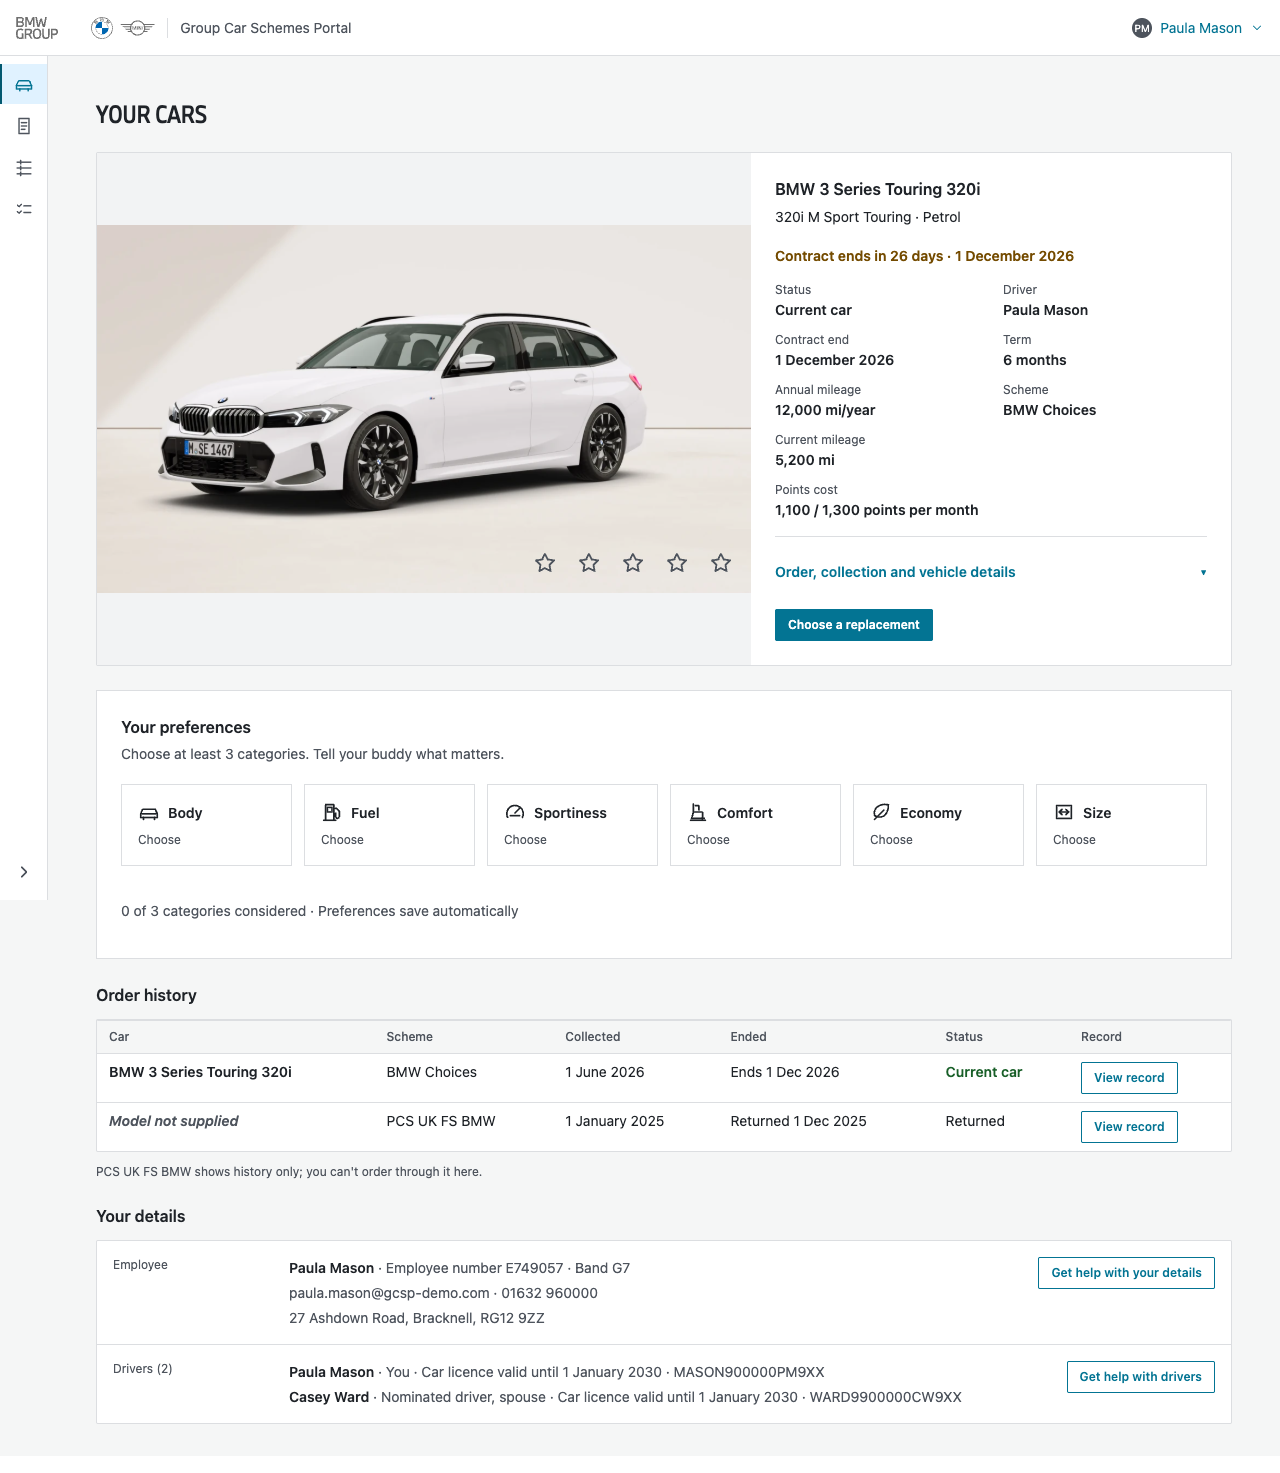
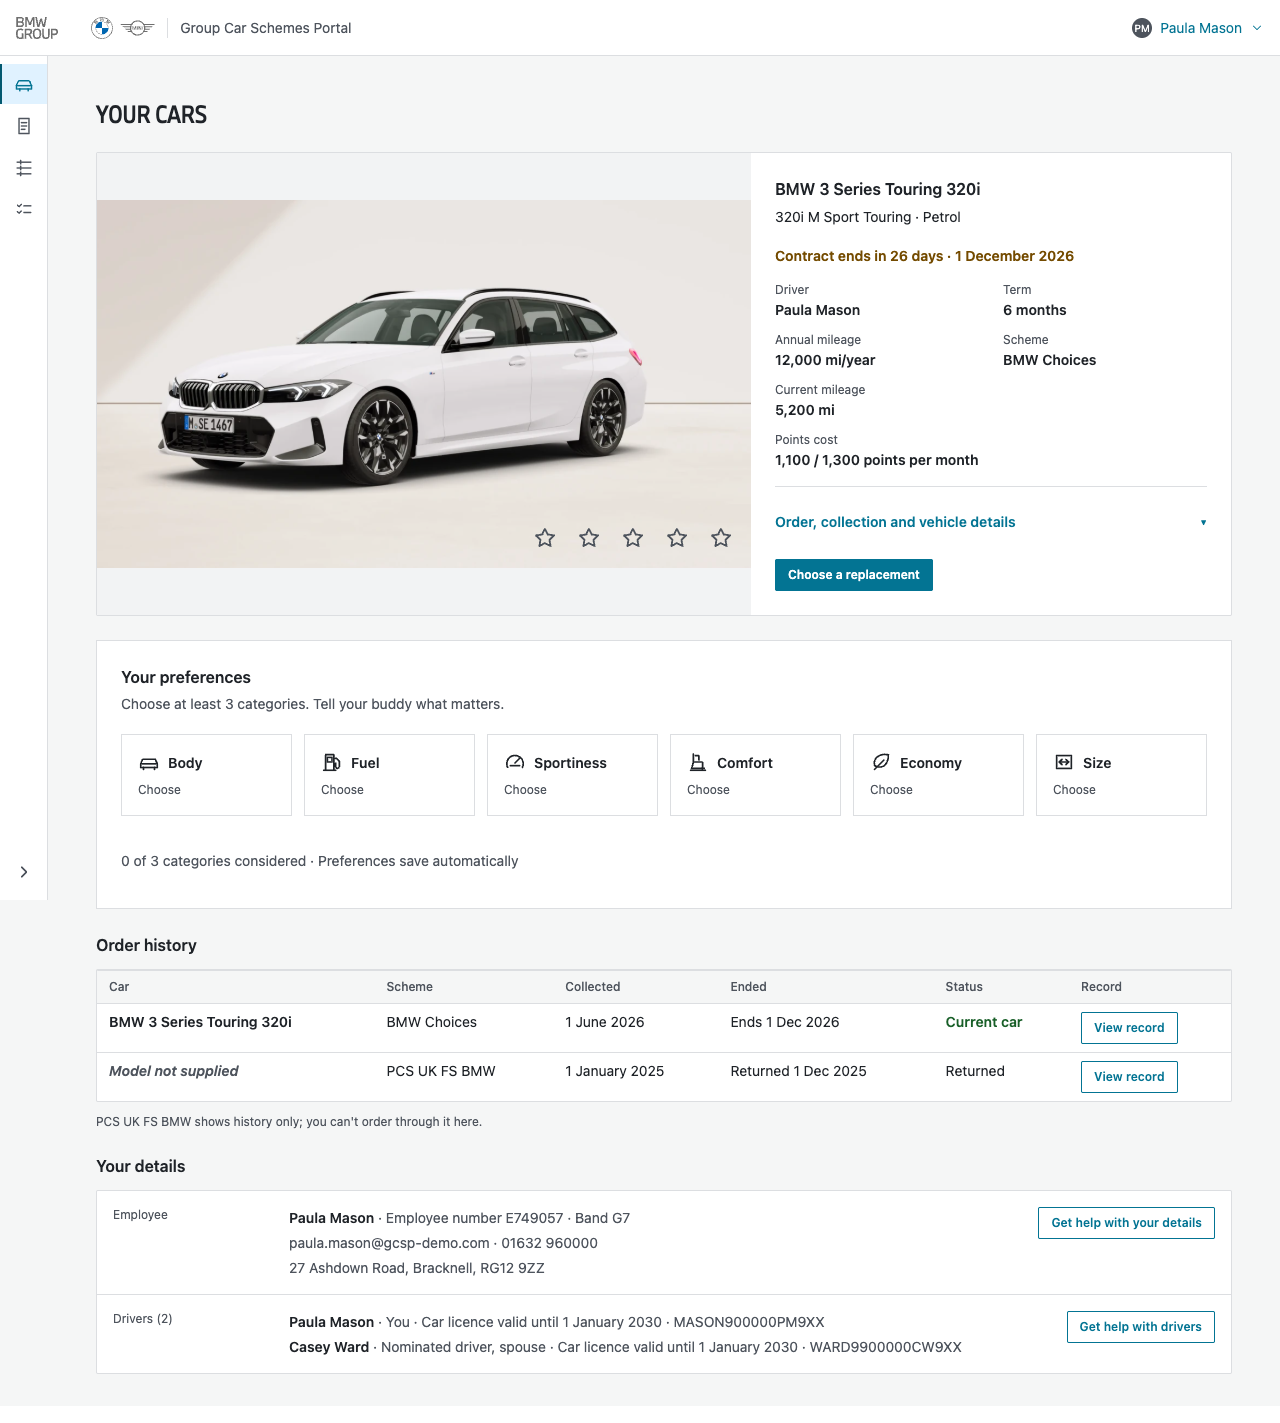
GCSP Your cars: drop the Status and Contract end facts from the car panel
The countdown already gives the end date and the panel is the current
car, so neither repeats (Paula P10). Gary approved this change to the
frozen facts on 11 November. Both stay in the full record.

diff --git a/server/test/gcsp-account-render.test.js b/server/test/gcsp-account-render.test.js
@@ -793,7 +793,7 @@ test('FUCQ-252: after a confirmed handover or return the current-car card follow
       assert.equal(rest.length, 0, `${oldStatus}: one current-car card`); assert.equal(card.dataset.contractId, undefined);
       assert.equal(card.dataset.orderUuid, orders.uuid); assert.equal(card.querySelector('h2').textContent, 'BMW 3 Series Saloon 320i');
       assert.equal(card.querySelector('.gcsp-account-context'), null);
-      assert.deepEqual(factPairs(card).slice(0, 3), [['Status', 'Current car'], ['Collected', '7 November 2026'], ['Delivered VIN', VIN]]);
+      assert.deepEqual(factPairs(card).slice(0, 2), [['Collected', '7 November 2026'], ['Delivered VIN', VIN]], 'the panel is the current car, so no Status fact');
       assert.doesNotMatch(view.root.textContent, /No current car|Choose a replacement/);
     } finally { view.destroy(); }
   }
@@ -869,7 +869,7 @@ test('FUCQ-195: the current-car card shows readable labels and no raw identifier
     const record = openFrom(first.root).textContent; first.root.querySelector('.gcsp-side-drawer .vm-btn').click();
     for (const id of raw) { assert.ok(!shownText.some((text) => text.includes(id)), id); assert.ok(!record.includes(id), id); }
     assert.ok(![...card.querySelectorAll('dd')].some((node) => node.textContent === value.currentContract.status));
-    assert.deepEqual(factPairs(card)[0], ['Status', 'Current car']);
+    assert.equal(factPairs(card).some(([name]) => name === 'Status'), false, 'the record keeps Status; the panel does not repeat it');
     assert.equal(pointsCost(card), '1,100 / 1,300 points per month');
     assert.doesNotMatch(card.textContent, /Synthetic example data/);
     assert.doesNotMatch(card.textContent, /Vehicle slot|Scheme|Current contract|points cost not supplied|Wltp/);
@@ -1066,9 +1066,9 @@ test('the current car: heading and specification, countdown, ordered facts, deta
     const countdown = car.querySelector('.gcsp-countdown');
     assert.equal(countdown.textContent, 'Contract ends in 26 days \u00b7 1 December 2026');
     assert.equal(countdown.previousElementSibling.className, 'gcsp-account-title');
-    // Registration is unsupplied in the fixture, so its row is hidden; Points cost is last.
-    assert.deepEqual(factPairs(car.querySelector('.gcsp-account-car-facts')), [['Status', 'Current car'], ['Driver', 'Paula Mason'],
-      ['Contract end', '1 December 2026'], ['Term', '6 months'], ['Annual mileage', '12,000 mi/year'], ['Current mileage', '5,200 mi'],
+    // No Status or Contract end (the countdown says it); unsupplied Registration is hidden; Points cost is last.
+    assert.deepEqual(factPairs(car.querySelector('.gcsp-account-car-facts')), [['Driver', 'Paula Mason'],
+      ['Term', '6 months'], ['Annual mileage', '12,000 mi/year'], ['Current mileage', '5,200 mi'],
       ['Points cost', '1,100 / 1,300 points per month']]);
     const details = car.querySelector('details.gcsp-details');
     assert.equal(details.querySelector('summary.gcsp-details-summary').textContent, 'Order, collection and vehicle details');

diff --git a/blocks/gcsp/account/gcsp-account.js b/blocks/gcsp/account/gcsp-account.js
@@ -226,8 +226,8 @@ function currentCar(contract, model, controls, explained = false) {
     : el('p', 'gcsp-countdown', `Contract ${countdown(model.asOf.slice(0, 10), contract.contractEndDate)} \u00b7 ${date(contract.contractEndDate)}`);
   const copy = el('div', 'gcsp-feature-copy');
   copy.append(title, state);
-  const list = suppliedFacts([row('Status', status(contract.status)), row('Driver', contract.driver?.name), row('Contract end', date(contract.contractEndDate)),
-    row('Term', contract.months, 'months'), row('Annual mileage', contract.annualMileage, contract.mileageUnit), row('Scheme', scheme),
+  // The countdown already says the end date and the panel is the current car, so neither repeats as a fact (Gary, 11 Nov).
+  const list = suppliedFacts([row('Driver', contract.driver?.name), row('Term', contract.months, 'months'), row('Annual mileage', contract.annualMileage, contract.mileageUnit), row('Scheme', scheme),
     row('Registration', contract.registration), row('Current mileage', contract.currentOdometer), ...slotRows(model, contract.slotId),
     row('Points cost', formatPointsCost(terms))], 'gcsp-account-facts gcsp-account-car-facts');
   copy.append(list);
@@ -264,7 +264,7 @@ function orderCurrentCar(car, order, orderVehicle) {
   const copy = el('div', 'gcsp-feature-copy');
   const title = el('div', 'gcsp-account-title');
   title.append(heading);
-  copy.append(title, ...[suppliedFacts([row('Status', 'Current car'), row('Collected', date(car.collectedAt?.slice(0, 10))), row('Delivered VIN', car.vin),
+  copy.append(title, ...[suppliedFacts([row('Collected', date(car.collectedAt?.slice(0, 10))), row('Delivered VIN', car.vin),
     ...(same ? orderIdentityRows(order.source?.orderReference, order.source?.orderNumber).map(({ label, value }) => row(label, value)) : [])], 'gcsp-account-facts')].filter(Boolean));
   feature.append(mediaColumn(media), copy);
   return feature;

diff --git a/COMPONENTS.md b/COMPONENTS.md
@@ -292,7 +292,7 @@ A data helper, not a component (pure, no DOM). On-screen times read the Europe/L
 
 `mountAccount(root, { adapter, brand, onSupport, print, preferences })` and `<gcsp-account>` compose `mountEmployee`, `screenIntro`, `button`, `statusScreen`, `factList`, `formatTerm`, `mediaWell` (`gcsp-media-whole`), `formatPointsCost`, the existing countdown, `dataTable` and `sideDrawer`. A current car has no stock decision, so this is page composition rather than a new decision-card primitive. `gcsp-account.css` imports the employee composition and has its own ratchet cap; harness `gcsp-account.html` uses the HTTP adapter by default and explicit read-only snapshots with `?fixture=`.
 
-**Your cars (frozen reference [193cbf07](docs/gcsp/mockups/account-preferences-2026-11-10/FROZEN-REFERENCE.md), FUCQ-359).** The account body is centred and capped at 1680 px (`.gcsp-account-body` only; `.gcsp-rep` elsewhere is unchanged). DOM, reading and visual order for a ready account: the h1 head (no kicker; the shared 23 px title token; a ghost "Refresh" there only after a conflict or stale saved journey, while a failed account read puts a primary "Refresh" in its one failure region instead), message, saved-journey, "Your car offer" and "Your new car" rows, one `.gcsp-feature` per current contract, any order-current-car, one no-current-car `statusScreen` whose message carries the allowance and whose primary is "Start a new order", then **Your preferences**, then `.gcsp-account-secondary` (Order history, Your details), which closes the page (no "Account as of" line). A car is two columns (`minmax(0,1fr) minmax(390px,480px)`; equal columns to 1100 px; stacked under 600 px). The photo column is a `mediaWell` with `gcsp-media-whole`. The copy column holds the model heading with a specification line from supplied `vehicle.configuration` and fuel only, the `gcsp-countdown` ("Contract ends in 26 days · 1 December 2026"), one two-column `factList` (Status, Driver, Contract end, Term, Annual mileage, Scheme, Registration, Current mileage, any slot label, then **Points cost** across both columns via `formatPointsCost`; unsupplied rows are hidden), a native `details.gcsp-details` "Order, collection and vehicle details" (supplied Collected, Replacement collection, order number or reference, Delivered VIN; absent when none), and **Choose a replacement** from the server action (ghost only while an offer is held). The car has no key-figure strip, context label, countdown dot, caption, image-source line or record button; the image source appears in the full record. Record-opening lives only in Order history, a `dataTable` (`stack`) with a "View record" row action opening `sideDrawer` (Print in its footer); Your details is two bordered rows with help buttons. "Your car offer" is its own `.gcsp-summary` before the car (primary while held). Buddy activity is no longer read or shown here. After acceptance one "Your new car" `.gcsp-summary` row replaces the embedded tracker. The car panel says "Replacement isn’t available for this car." only when the page state doesn't already say so. The history note names history-only schemes and says nothing about empty ones. Loading draws `loadingSkeleton({ layout: 'feature' })`. This page hides "Not supplied" fields except Points cost; `account-view.js` still carries `missingLabel`.
+**Your cars (frozen reference [193cbf07](docs/gcsp/mockups/account-preferences-2026-11-10/FROZEN-REFERENCE.md), FUCQ-359).** The account body is centred and capped at 1680 px (`.gcsp-account-body` only; `.gcsp-rep` elsewhere is unchanged). DOM, reading and visual order for a ready account: the h1 head (no kicker; the shared 23 px title token; a ghost "Refresh" there only after a conflict or stale saved journey, while a failed account read puts a primary "Refresh" in its one failure region instead), message, saved-journey, "Your car offer" and "Your new car" rows, one `.gcsp-feature` per current contract, any order-current-car, one no-current-car `statusScreen` whose message carries the allowance and whose primary is "Start a new order", then **Your preferences**, then `.gcsp-account-secondary` (Order history, Your details), which closes the page (no "Account as of" line). A car is two columns (`minmax(0,1fr) minmax(390px,480px)`; equal columns to 1100 px; stacked under 600 px). The photo column is a `mediaWell` with `gcsp-media-whole`. The copy column holds the model heading with a specification line from supplied `vehicle.configuration` and fuel only, the `gcsp-countdown` ("Contract ends in 26 days · 1 December 2026"), one two-column `factList` (Driver, Term, Annual mileage, Scheme, Registration, Current mileage, any slot label, then **Points cost** across both columns via `formatPointsCost`; unsupplied rows are hidden), a native `details.gcsp-details` "Order, collection and vehicle details" (supplied Collected, Replacement collection, order number or reference, Delivered VIN; absent when none), and **Choose a replacement** from the server action (ghost only while an offer is held). Status and Contract end are not panel facts, because the countdown says the end date and the panel is the current car (Gary, 11 November); both stay in the full record. The car has no key-figure strip, context label, countdown dot, caption, image-source line or record button; the image source appears in the full record. Record-opening lives only in Order history, a `dataTable` (`stack`) with a "View record" row action opening `sideDrawer` (Print in its footer); Your details is two bordered rows with help buttons. "Your car offer" is its own `.gcsp-summary` before the car (primary while held). Buddy activity is no longer read or shown here. After acceptance one "Your new car" `.gcsp-summary` row replaces the embedded tracker. The car panel says "Replacement isn’t available for this car." only when the page state doesn't already say so. The history note names history-only schemes and says nothing about empty ones. Loading draws `loadingSkeleton({ layout: 'feature' })`. This page hides "Not supplied" fields except Points cost; `account-view.js` still carries `missingLabel`.
 
 **Mounted preferences (FUCQ-368).** `mountAccountPreferences(region, { transport, signal })` (`blocks/gcsp/brief/account-preferences.js`) composes `categoryPreferences` and `loadingSkeleton` in that region over `createAccountPreferencesController`, and is passed as `preferences` by `harness.js` through `mountManualJourney`, beside `notifications`. It owns its content, so Account redraws and quiet `sync()` leave an open panel and focus alone. `?fixture=ready&prefs=<empty|selected|body-open-unset|body-open-medium|body-high|comfort-midpoint|remove-comfort|save-failed|stale>` mounts it over an in-memory transport (`account-preferences-fixtures.js`, presentation data only).
 

diff --git a/docs/gcsp/your-cars-ui-rules-review-2026-11-11.md b/docs/gcsp/your-cars-ui-rules-review-2026-11-11.md
@@ -28,7 +28,7 @@ Its agreed structure stays: car panel, rating, facts and Points cost, then Your 
 | 6 | `14` loading: the generic page skeleton, narrower than the page, with lede lines and an inset image the page doesn't have | Skeletons are shaped like the coming view | A `feature` skeleton layout in the kit: the full-width car panel (wide image, facts column), the preferences panel and rows | Kit extend, made |
 | 7 | `01` history note "No Motorcycle Choices orders. PCS UK FS BMW shows history only…" | No unnecessary prose; Paula P10 hides empty schemes | The "No … orders." half is dropped; the history-only half stays | Rule fix, made |
 | 8 | Car panel `border-radius: 0` | Radius token | `--gcsp-radius` | Token fix, made |
-| 9 | `01` car facts repeat the countdown ("Contract end 1 December 2026") and say "Status: Current car" under a panel that is the current car | Say a fact once (Paula P10 names both) | **Proposed:** drop both facts from the panel; both stay in the full record | Changes the frozen facts, needs Gary |
+| 9 | `01` car facts repeat the countdown ("Contract end 1 December 2026") and say "Status: Current car" under a panel that is the current car | Say a fact once (Paula P10 names both) | Both dropped from the panel, and Status from the car-from-order panel too; both stay in the full record | Changes the frozen facts; Gary approved, 11 Nov |
 
 ## Checked and left as they are
 
@@ -63,7 +63,7 @@ Not changed, and why:
   from the account data, and FUCQ-369 uses the heading and spec as the car's description.
 - **Low.** Short Order history columns wrap beside a very long car name (`04`). This is `dataTable`, not this layout.
 - **Low.** `?prefs=pending` doesn't hold the save in flight, so `12` matches `01`. This is the FUCQ-368 fixture.
-- **Item 9 above:** still waiting for Gary's decision.
+- **Item 9 above:** Gary approved dropping the facts on 11 November, and it's built.
 
 Tests run (scoped, one worker): gcsp-account-render, gcsp-loading-skeleton, gcsp-presenter-refresh, gcsp-account-runtime,
 gcsp-live-regions, ui-ratchet, gcsp-painted-copy-words, shared-kit-contracts, gcsp-plain-copy and gcsp-manual-journey-resume
